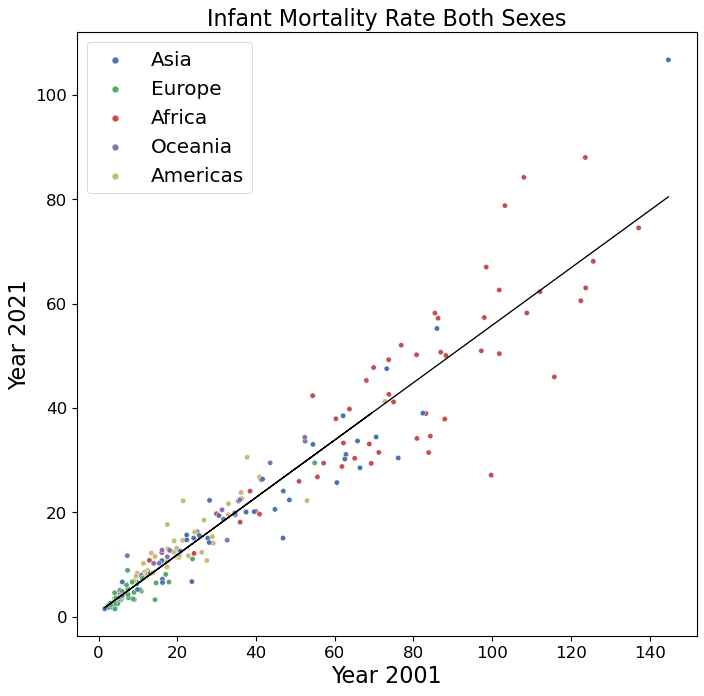
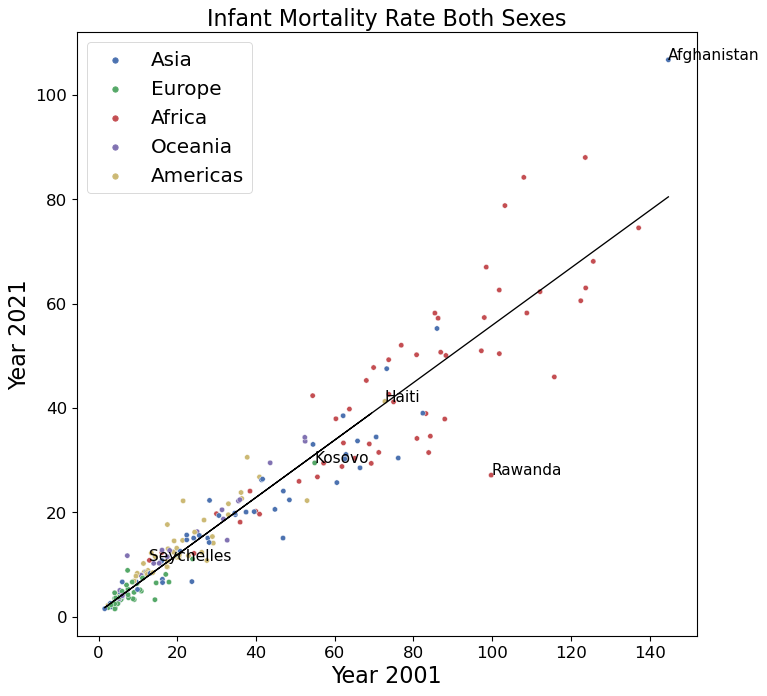
Updated markdown for country names Q4 scatter plot

diff --git a/Markdown/Problem_1_Code_Raj_231811.md b/Markdown/Problem_1_Code_Raj_231811.md
@@ -556,8 +556,10 @@ new_df = pd.DataFrame(columns=["2001", "2021", "Region"])
 new_df["2001"] = np.array(data_from_year_2001[col_name])
 new_df["2021"] = np.array(data_2021_filtered[col_name])
 new_df["Region"] = np.array(data_from_year_2001["Region"])
+new_df["Country.Name"] = np.array(data_from_year_2001["Country.Name"])
 cd = sns.scatterplot(x="2001", y="2021", data=new_df, hue="Region")
-#plt.plot([0, 100], [0, 100], ls="-", c='.2')
+
+#print((new_df.sort_values('2001')).to_string())
 
 # Plotting the regression line using least squares polynomial fit
 X = new_df["2001"]
@@ -565,22 +567,24 @@ Y = new_df["2021"]
 slope, intercept = np.polyfit(X, Y, 1)
 plt.plot(X, X*slope + intercept, 'k')
 
+plt.text(144.77, 106.75, "Afghanistan", size="x-large")
+plt.text(54.91, 29.51, "Kosovo", size="x-large")
+plt.text(12.92, 10.83, "Seychelles", size="x-large")
+plt.text(99.75, 27.16, "Rawanda", size="x-large")
+plt.text(72.75, 41.29, "Haiti", size="x-large")
+
 plt.xlabel("Year 2001", fontsize=20)
 plt.ylabel("Year 2021", fontsize=20)
 plt.title("Infant Mortality Rate Both Sexes", fontsize=20)
 plt.legend(prop={'size': 18})
 plt.show()
-plt.savefig('Plots/Scatter_Infant_Mortality_Rate_Both_Sexes.pdf')
+#plt.savefig('Plots/Scatter_Infant_Mortality_Rate_Both_Sexes.pdf')
 ```
 
 
     
 ![png](output_25_0.png)
     
-
-
-
-    <Figure size 432x288 with 0 Axes>
 
 
 
@@ -592,14 +596,21 @@ new_df = pd.DataFrame(columns=["2001", "2021", "Region"])
 new_df["2001"] = np.array(data_from_year_2001[col_name])
 new_df["2021"] = np.array(data_2021_filtered[col_name])
 new_df["Region"] = np.array(data_from_year_2001["Region"])
+new_df["Country.Name"] = np.array(data_from_year_2001["Country.Name"])
 cd = sns.scatterplot(x="2001", y="2021", data=new_df, hue="Region")
-#plt.plot([0, 100], [0, 100], ls="-", c='.2')
+
+#print((new_df.sort_values('2001')).to_string())
 
 # Plotting the regression line using least squares polynomial fit
 X = new_df["2001"]
 Y = new_df["2021"]
 slope, intercept = np.polyfit(X, Y, 1)
 plt.plot(X, X*slope + intercept, 'k')
+
+# Plot some countries that shows some off/similar trends
+plt.text(45.81, 53.25, "Afghanistan", size="x-large")
+plt.text(85.96, 89.40, "Monaco", size="x-large")
+plt.text(68.63,  74.38, "Marshall Islands", size="x-large")
 
 plt.xlabel("Year 2001", fontsize=20)
 plt.ylabel("Year 2021", fontsize=20)
@@ -628,14 +639,21 @@ new_df = pd.DataFrame(columns=["2001", "2021", "Region"])
 new_df["2001"] = np.array(data_from_year_2001[col_name])
 new_df["2021"] = np.array(data_2021_filtered[col_name])
 new_df["Region"] = np.array(data_from_year_2001["Region"])
+new_df["Country.Name"] = np.array(data_from_year_2001["Country.Name"])
 cd = sns.scatterplot(x="2001", y="2021", data=new_df, hue="Region")
-#plt.plot([0, 100], [0, 100], ls="-", c='.2')
+
+#print((new_df.sort_values('2001')).to_string())
 
 # Plotting the regression line using least squares polynomial fit
 X = new_df["2001"]
 Y = new_df["2021"]
 slope, intercept = np.polyfit(X, Y, 1)
 plt.plot(X, X*slope + intercept, 'k')
+
+# Plot some countries that shows some off/similar trends
+plt.text(46.83, 54.85, "Afghanistan", size="x-large")
+plt.text(89.40, 93.40, "Monaco", size="x-large")
+plt.text(70.60, 76.76, "Marshall Islands", size="x-large")
 
 plt.xlabel("Year 2001", fontsize=20)
 plt.ylabel("Year 2021", fontsize=20)
@@ -664,14 +682,21 @@ new_df = pd.DataFrame(columns=["2001", "2021", "Region"])
 new_df["2001"] = np.array(data_from_year_2001[col_name])
 new_df["2021"] = np.array(data_2021_filtered[col_name])
 new_df["Region"] = np.array(data_from_year_2001["Region"])
+new_df["Country.Name"] = np.array(data_from_year_2001["Country.Name"])
 cd = sns.scatterplot(x="2001", y="2021", data=new_df, hue="Region")
-#plt.plot([0, 100], [0, 100], ls="-", c='.2')
+
+#print((new_df.sort_values('2001')).to_string())
 
 # Plotting the regression line using least squares polynomial fit
 X = new_df["2001"]
 Y = new_df["2021"]
 slope, intercept = np.polyfit(X, Y, 1)
 plt.plot(X, X*slope + intercept, 'k')
+
+# Plot some countries that shows some off/similar trends
+plt.text(44.85,  51.73, "Afghanistan", size="x-large")
+plt.text(82.82,  85.55, "Monaco", size="x-large")
+plt.text(66.76,  72.12, "Marshall Islands", size="x-large")
 
 plt.xlabel("Year 2001", fontsize=20)
 plt.ylabel("Year 2021", fontsize=20)
